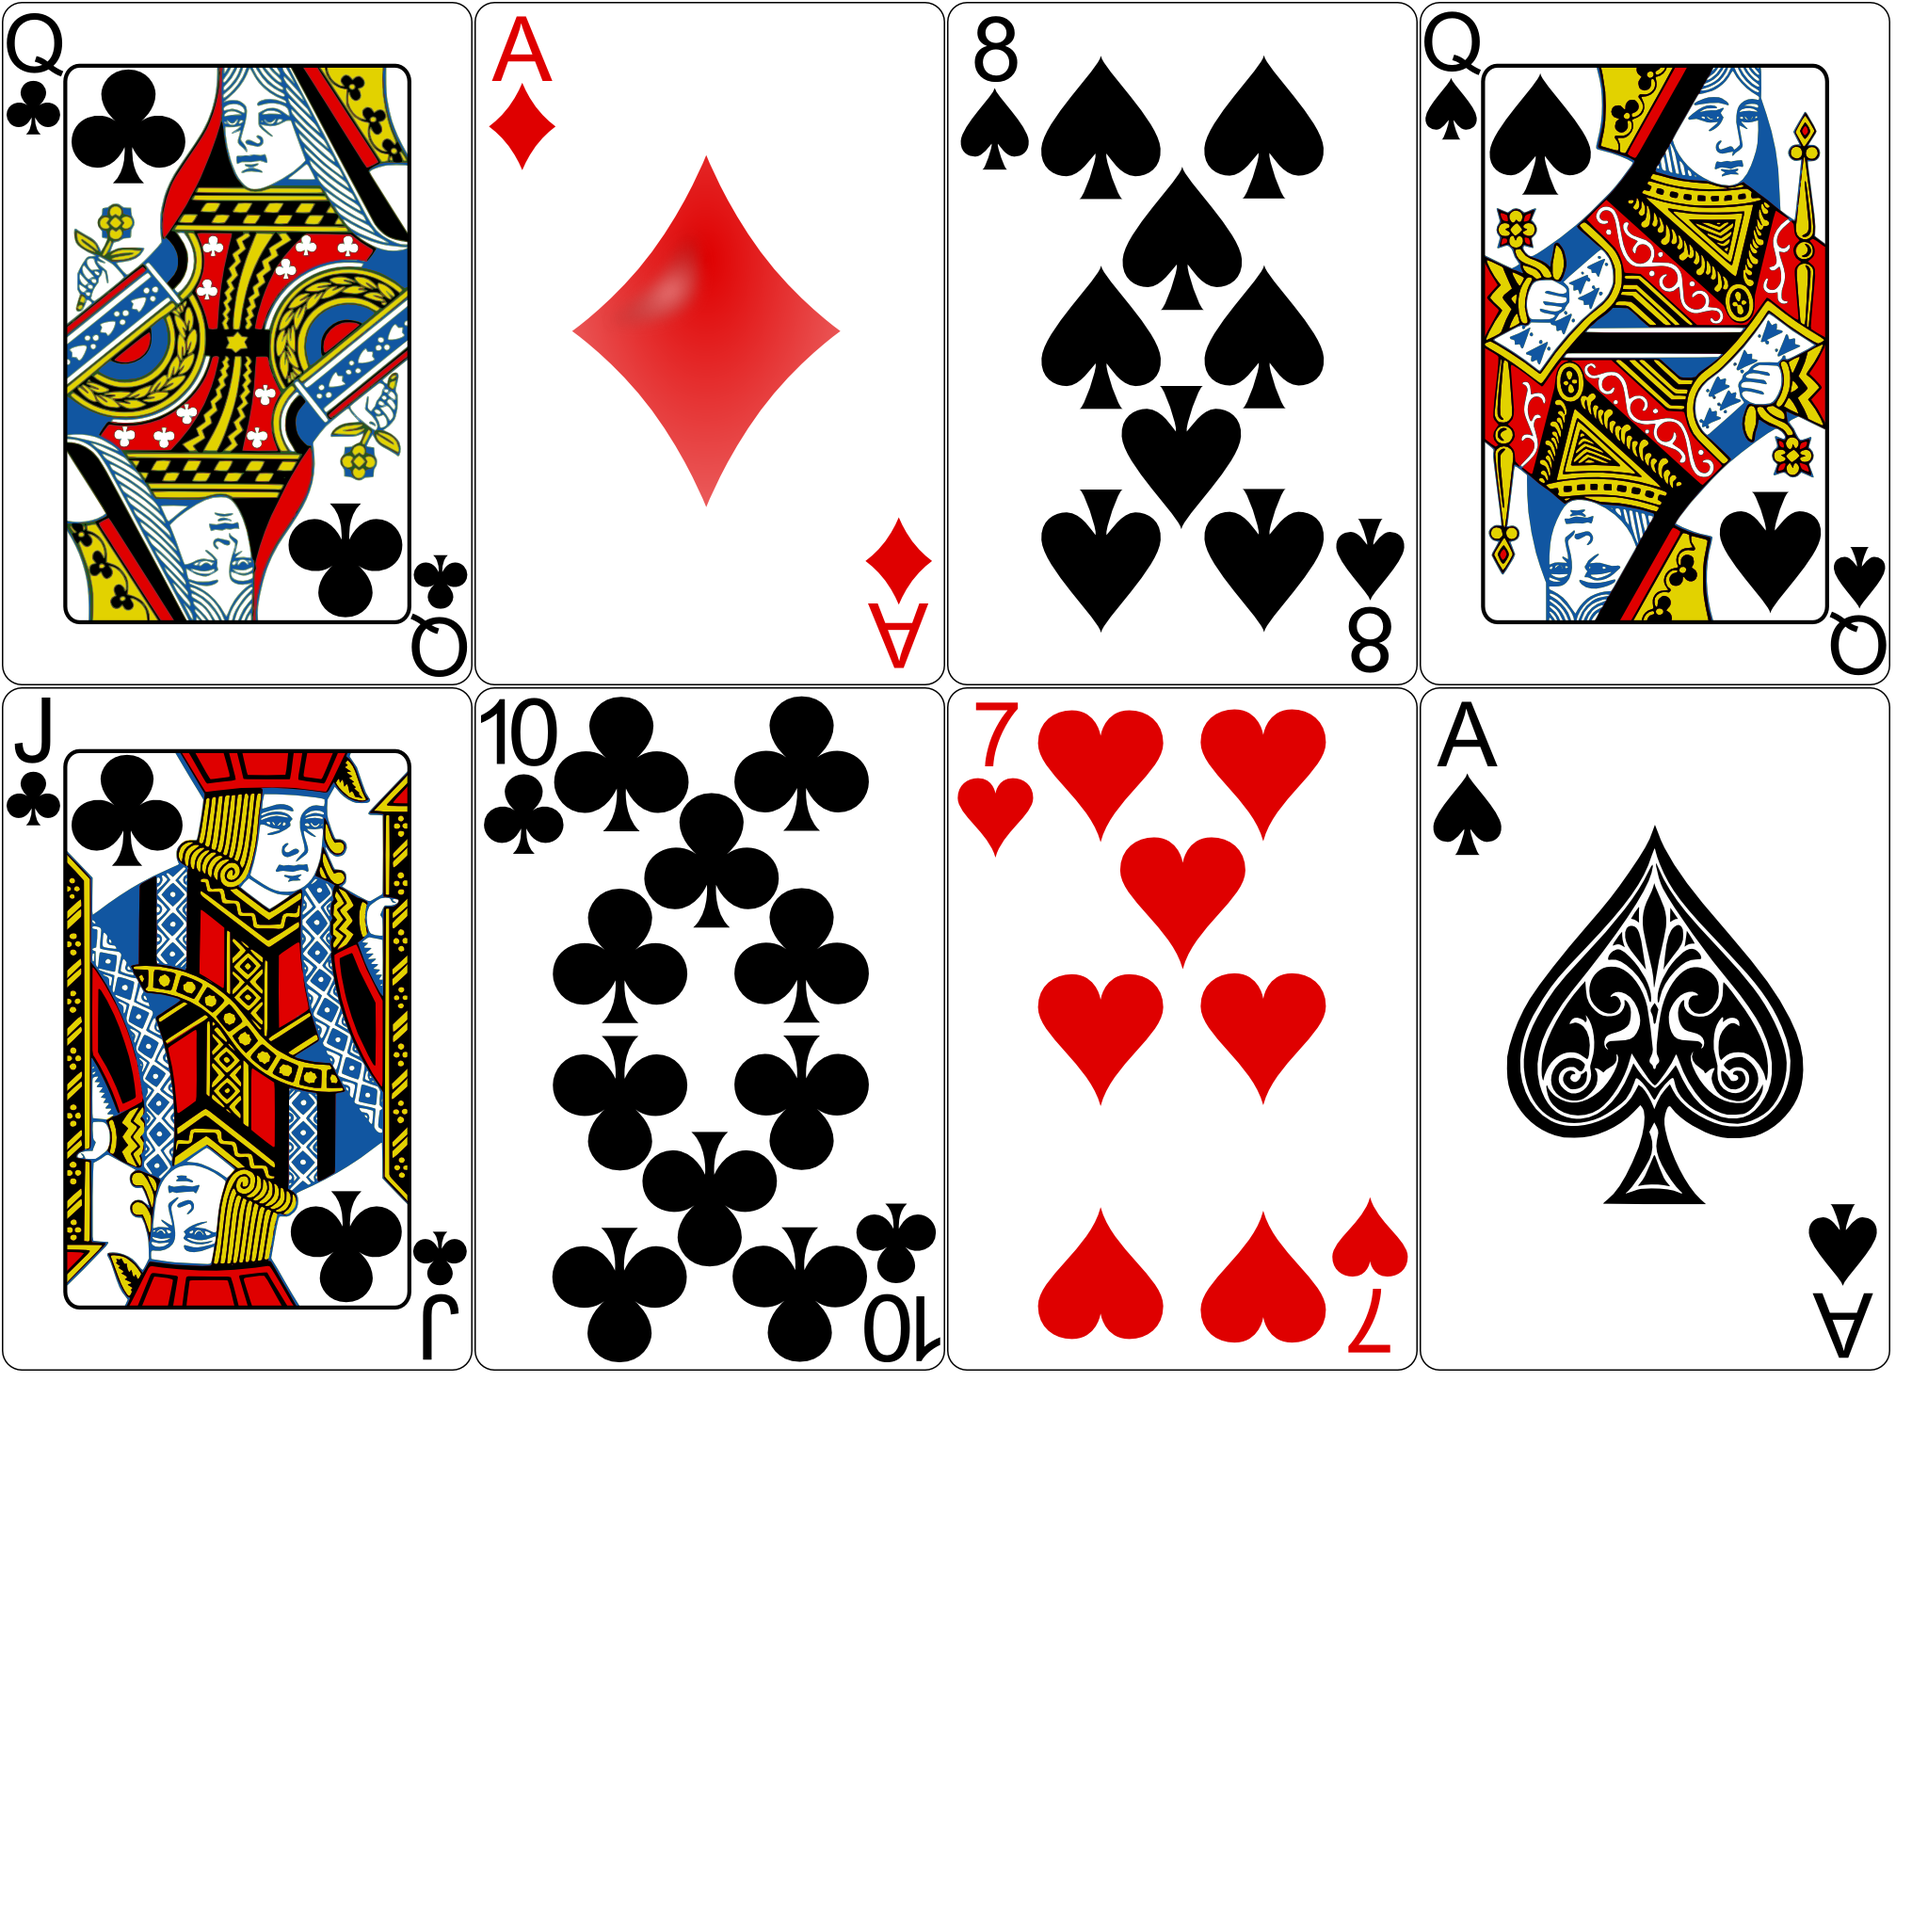
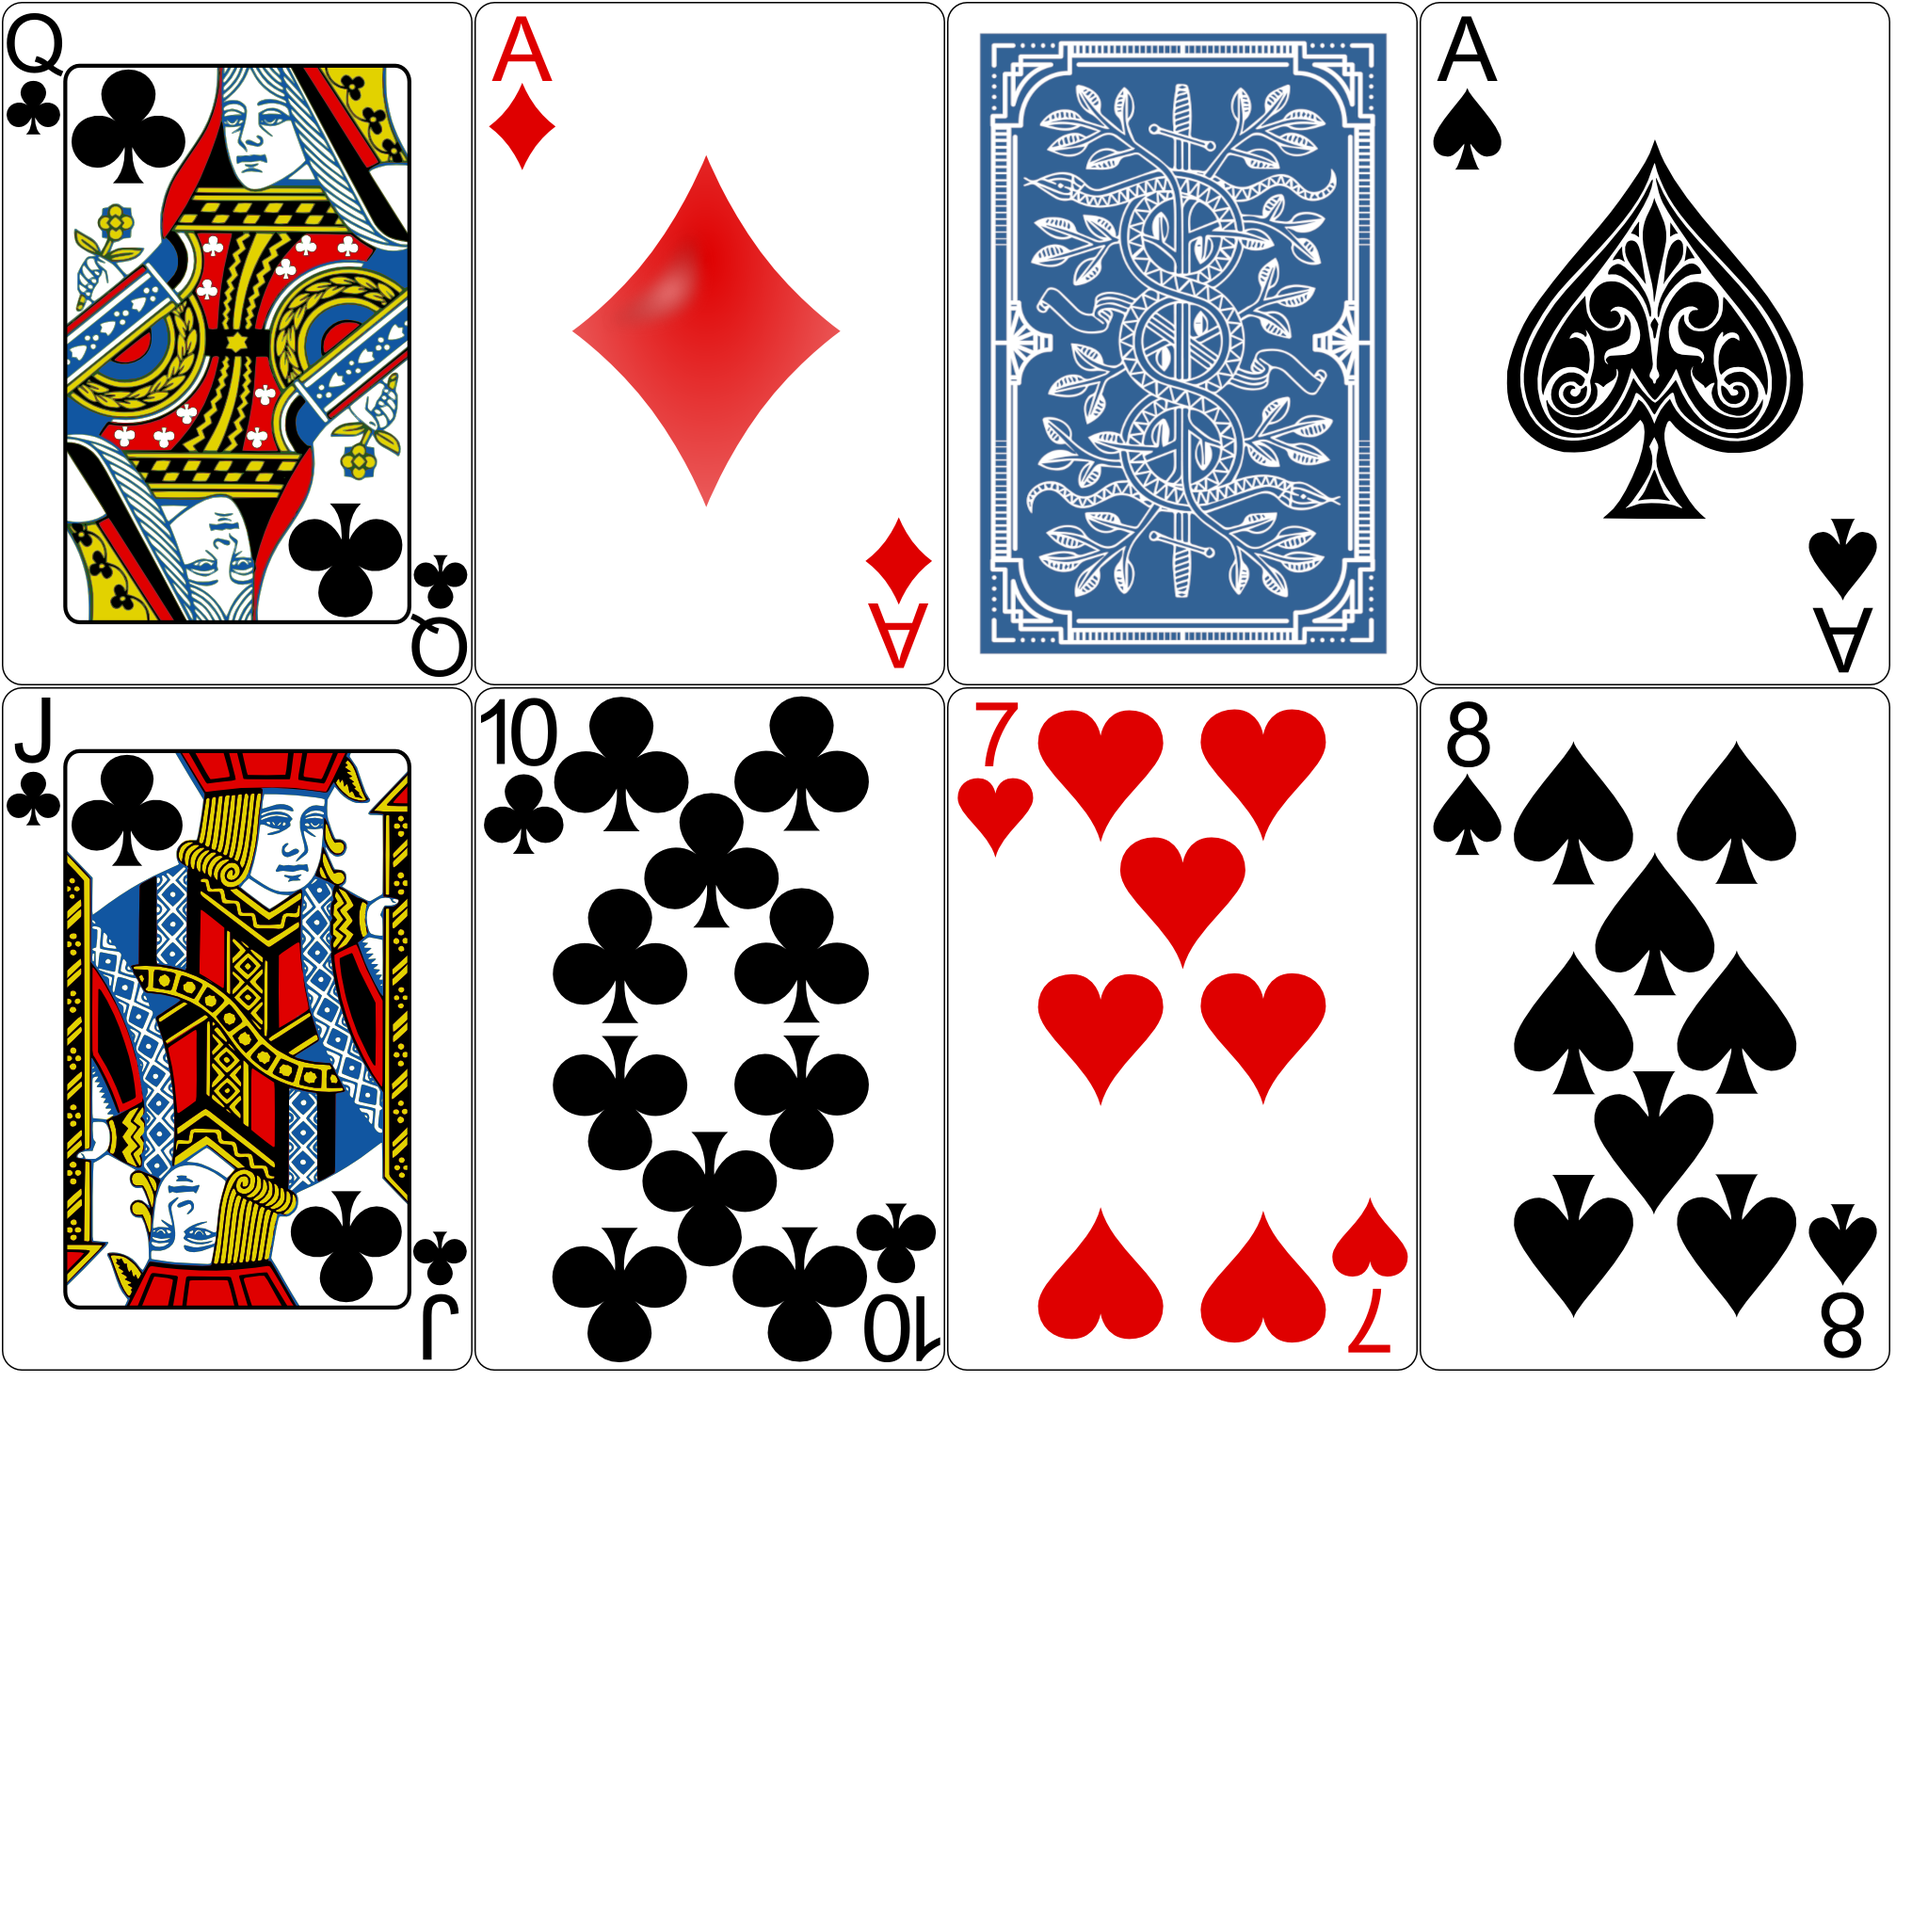
added game master

Changed region(s): [[0.5, 0.0, 1.0, 0.3438], [0.75, 0.3438, 0.9688, 0.7188]]

diff --git a/core/src/main/java/com/bovinemisconduct/belot/gamemaster/GameMaster.java b/core/src/main/java/com/bovinemisconduct/belot/gamemaster/GameMaster.java
@@ -1,0 +1,53 @@
+package com.bovinemisconduct.belot.gamemaster;
+
+import com.badlogic.gdx.assets.AssetManager;
+import com.badlogic.gdx.graphics.Texture.TextureFilter;
+import com.badlogic.gdx.graphics.g2d.TextureAtlas;
+import com.badlogic.gdx.graphics.glutils.ShapeRenderer;
+import com.badlogic.gdx.math.Vector2;
+import com.badlogic.gdx.scenes.scene2d.Stage;
+import com.badlogic.gdx.scenes.scene2d.ui.Image;
+import com.badlogic.gdx.utils.viewport.FitViewport;
+import com.bovinemisconduct.belot.Belot;
+import com.bovinemisconduct.belot.assetmanager.Assets;
+import com.bovinemisconduct.belot.assetmanager.CardAssets;
+import com.bovinemisconduct.belot.deckmanager.CardConstants;
+import com.bovinemisconduct.belot.deckmanager.DeckCard;
+import lombok.RequiredArgsConstructor;
+
+import java.util.List;
+
+@RequiredArgsConstructor
+public class GameMaster {
+
+    private final Belot game;
+
+    List<DeckCard> rightPlayerCards;
+    List<DeckCard> topPlayerCards;
+    List<DeckCard> leftPlayerCards;
+    List<DeckCard> bottomPlayerCards;
+
+    public void dealCards(Stage stage) {
+        //place deck in the center of the stage
+        AssetManager assetManager = game.getContextComponent(AssetManager.class);
+        TextureAtlas atlas = assetManager.get(Assets.CARD_ATLAS, TextureAtlas.class);
+        TextureAtlas.AtlasRegion cardBack = atlas.findRegion(CardAssets.CARD_BACK_ASSET_NAME);
+        cardBack.getTexture().setFilter(TextureFilter.Linear, TextureFilter.Linear);
+        Image image = new Image(cardBack);
+        Vector2 vector2 = centerDeck(stage);
+        image.setSize(CardConstants.CARD_WIDTH, CardConstants.CARD_HEIGHT);
+        image.setPosition(vector2.x, vector2.y);
+        stage.addActor(image);
+
+        //animate dealing cards to players
+    }
+
+    private Vector2 centerDeck(Stage stage) {
+        float screenWidth = stage.getWidth();
+        float screenHeight =stage.getHeight();
+
+        float centerX = (screenWidth - CardConstants.CARD_WIDTH) / 2f;
+        float centerY = (screenHeight - CardConstants.CARD_HEIGHT) / 2f;
+        return new Vector2(centerX, centerY);
+    }
+}

diff --git a/lwjgl3/src/main/java/com/bovinemisconduct/belot/lwjgl3/Lwjgl3Launcher.java b/lwjgl3/src/main/java/com/bovinemisconduct/belot/lwjgl3/Lwjgl3Launcher.java
@@ -26,13 +26,13 @@ public class Lwjgl3Launcher {
         configuration.useVsync(true);
         // Limits FPS to the refresh rate of the currently active monitor, plus 1 to try to match fractional
         // refresh rates. The Vsync setting above should limit the actual FPS to match the monitor.
-        configuration.setForegroundFPS((Lwjgl3ApplicationConfiguration.getDisplayMode().refreshRate /2) + 1);
-        configuration.setIdleFPS(1);
+        configuration.setForegroundFPS((Lwjgl3ApplicationConfiguration.getDisplayMode().refreshRate) + 1);
+        configuration.setIdleFPS(15);
         // If you remove the above line and set Vsync to false, you can get unlimited FPS, which can be
         // useful for testing performance, but can also be very stressful to some hardware.
         // You may also need to configure GPU drivers to fully disable Vsync; this can cause screen tearing.
 
-        configuration.setWindowedMode(1024, 768);
+        configuration.setWindowedMode(1024, 960);
         configuration.setResizable(false);
         // You can change these files; they are in lwjgl3/src/main/resources/ .
         // They can also be loaded from the root of assets/ .

diff --git a/core/src/main/java/com/bovinemisconduct/belot/screens/GameScreen.java b/core/src/main/java/com/bovinemisconduct/belot/screens/GameScreen.java
@@ -8,14 +8,17 @@ import com.badlogic.gdx.scenes.scene2d.ui.TextButton;
 import com.badlogic.gdx.scenes.scene2d.utils.ChangeListener;
 import com.badlogic.gdx.utils.ScreenUtils;
 import com.bovinemisconduct.belot.Belot;
+import com.bovinemisconduct.belot.gamemaster.GameMaster;
 import com.bovinemisconduct.belot.items.debug.DebugText;
 
 public class GameScreen extends BelotScreen {
     private final DebugText debugText;
     private final Stage stage;
+    private final GameMaster gameMaster;
 
     public GameScreen(Belot game) {
         super(game);
+        this.gameMaster = game.getContextComponent(GameMaster.class);
         debugText = new DebugText(this);
         stage = new Stage(viewport, spriteBatch);
 
@@ -24,6 +27,8 @@ public class GameScreen extends BelotScreen {
 
     @Override
     public void show() {
+        gameMaster.dealCards(stage);
+
         TextButton backButton = new TextButton("Back", skin, "small");
         backButton.setPosition(10, 10);
         backButton.setSize(100, 50);

diff --git a/core/src/main/java/com/bovinemisconduct/belot/Belot.java b/core/src/main/java/com/bovinemisconduct/belot/Belot.java
@@ -11,6 +11,7 @@ import com.badlogic.gdx.utils.viewport.FitViewport;
 import com.bovinemisconduct.belot.assetmanager.AssetManagerFactory;
 import com.bovinemisconduct.belot.assetmanager.Assets;
 import com.bovinemisconduct.belot.deckmanager.DeckManager;
+import com.bovinemisconduct.belot.gamemaster.GameMaster;
 import com.bovinemisconduct.belot.screens.BelotScreen;
 import com.bovinemisconduct.belot.screens.WelcomeScreen;
 import com.bovinemisconduct.belot.ui.fontsize.FontSizeProvider;
@@ -37,6 +38,7 @@ public class Belot extends Game {
         context.put(AssetManager.class, AssetManagerFactory.getCompleteManager());
         context.put(Skin.class, new Skin(Gdx.files.internal(Assets.SKIN)));
         context.put(DeckManager.class, new DeckManager());
+        context.put(GameMaster.class, new GameMaster(this));
     }
 
     private void initViewport() {

diff --git a/core/src/main/java/com/bovinemisconduct/belot/assetmanager/CardAssets.java b/core/src/main/java/com/bovinemisconduct/belot/assetmanager/CardAssets.java
@@ -3,6 +3,7 @@ package com.bovinemisconduct.belot.assetmanager;
 import com.bovinemisconduct.belot.deckmanager.CardRank;
 import com.bovinemisconduct.belot.deckmanager.CardSuit;
 import lombok.AccessLevel;
+import lombok.Getter;
 import lombok.NoArgsConstructor;
 
 import java.util.EnumMap;
@@ -10,6 +11,9 @@ import java.util.Map;
 
 @NoArgsConstructor(access = AccessLevel.PRIVATE)
 public class CardAssets {
+    @Getter
+    public static final String CARD_BACK_ASSET_NAME = "cardBack";
+
     private static final Map<CardSuit, Map<CardRank, String>> assetNames = populateCardAssets();
 
     private static Map<CardSuit, Map<CardRank, String>> populateCardAssets() {

diff --git a/core/src/main/java/com/bovinemisconduct/belot/deckmanager/CardConstants.java b/core/src/main/java/com/bovinemisconduct/belot/deckmanager/CardConstants.java
@@ -1,0 +1,11 @@
+package com.bovinemisconduct.belot.deckmanager;
+
+import lombok.NoArgsConstructor;
+
+import static lombok.AccessLevel.PRIVATE;
+
+@NoArgsConstructor(access = PRIVATE)
+public class CardConstants {
+    public static final float CARD_WIDTH = 100f;
+    public static final float CARD_HEIGHT = 145f;
+}

diff --git a/core/src/main/java/com/bovinemisconduct/belot/assetmanager/Assets.java b/core/src/main/java/com/bovinemisconduct/belot/assetmanager/Assets.java
@@ -8,4 +8,5 @@ public class Assets {
     public static final String CARD_ATLAS = "cards/cards.atlas";
     public static final String SKIN = "skin/glassy-ui.json";
     public static final String LOGO = "logo.png";
+
 }

diff --git a/core/src/main/java/com/bovinemisconduct/belot/deckmanager/DeckManager.java b/core/src/main/java/com/bovinemisconduct/belot/deckmanager/DeckManager.java
@@ -15,7 +15,6 @@ public class DeckManager {
         populateDeck();
     }
 
-
     private void populateDeck() {
         for (CardSuit suit : CardSuit.values()) {
             for (CardRank rank : CardRank.values()) {
